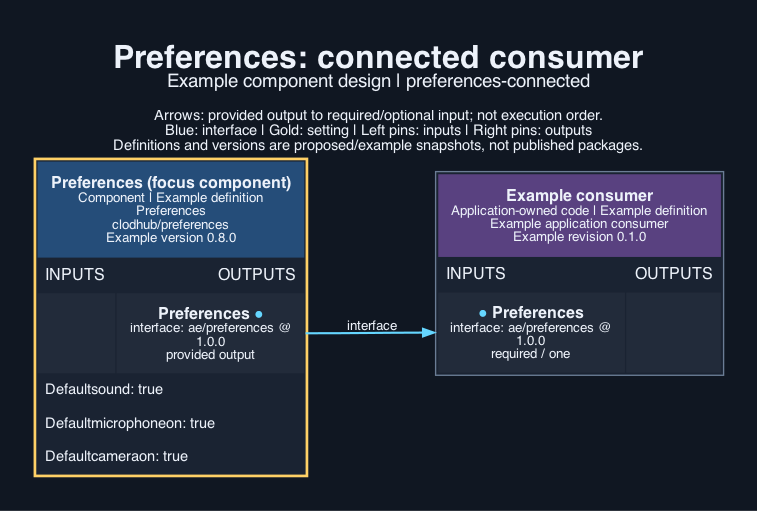
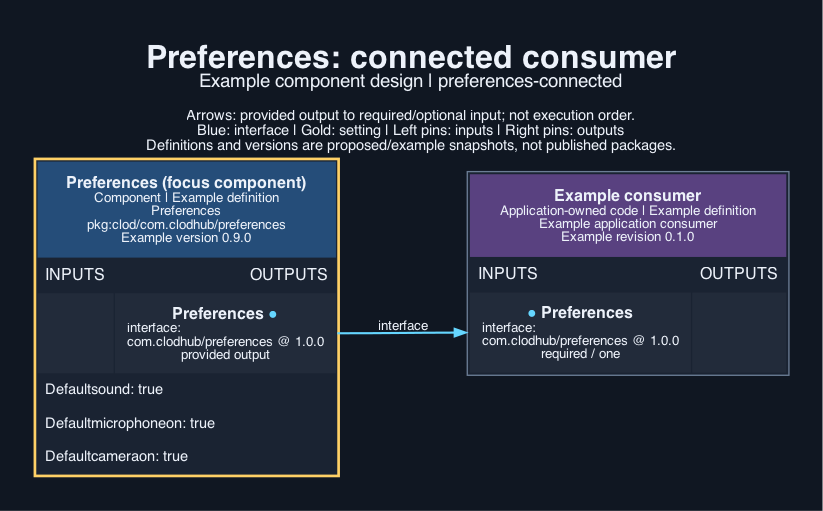
preferences 0.9.0: package URL names, clod, com.clodhub interface types and Kotlin packages; setting defaults as JSON values

diff --git a/tests/android/Main.kt b/tests/android/Main.kt
@@ -1,7 +1,7 @@
-import ae.preferences.DevicePreferences
-import ae.preferences.PreferenceDefaults
-import ae.preferences.PreferenceStorage
-import ae.preferences.availableDeviceId
+import com.clodhub.preferences.DevicePreferences
+import com.clodhub.preferences.PreferenceDefaults
+import com.clodhub.preferences.PreferenceStorage
+import com.clodhub.preferences.availableDeviceId
 
 class MemoryStorage : PreferenceStorage {
     val data = mutableMapOf<String, Any>()

diff --git a/implementation/android/src/main/java/com/clodhub/preferences/Preferences.kt b/implementation/android/src/main/java/com/clodhub/preferences/Preferences.kt
@@ -1,4 +1,4 @@
-package ae.preferences
+package com.clodhub.preferences
 
 // SharedPreferences in the application: the four methods below map straight onto it.
 interface PreferenceStorage {

diff --git a/CONTRACT.md b/CONTRACT.md
@@ -8,14 +8,14 @@ Facilities: `preferences` (Per-device language, sound, camera and microphone cho
 ## User inputs
 Three settings give the defaults for a device that has never chosen: `defaultSound` (default true), `defaultMicrophoneOn` (true) and `defaultCameraOn` (true). Language and device choices have no default beyond "follow the device" and "automatic".
 
-- `defaultSound` (boolean; optional; default `True`)
-- `defaultMicrophoneOn` (boolean; optional; default `True`)
-- `defaultCameraOn` (boolean; optional; default `True`)
+- `defaultSound` (boolean; optional; default `true`)
+- `defaultMicrophoneOn` (boolean; optional; default `true`)
+- `defaultCameraOn` (boolean; optional; default `true`)
 
 ## Artefacts and dependencies
 `component.json` maps every `implementation/` source into `components/preferences/`:
 
-- `implementation/android/src/main/java/ae/preferences/Preferences.kt` -> `components/preferences/android/src/main/java/ae/preferences/Preferences.kt`
+- `implementation/android/src/main/java/com/clodhub/preferences/Preferences.kt` -> `components/preferences/android/src/main/java/com/clodhub/preferences/Preferences.kt`
 - `implementation/apple/Sources/Preferences.swift` -> `components/preferences/apple/Sources/Preferences.swift`
 - `implementation/web/preferences.ts` -> `components/preferences/web/preferences.ts`
 
@@ -23,8 +23,8 @@ Dependencies: none.
 `tools.lock.json` pins verification tools: node 26.5, python3 3.12, swiftc 6.4, kotlinc 2.2, java 26.0. Licence wording remains deferred.
 
 ## Provided interfaces
-- `interfaces/preferences.json` defines `preferences` (ae/preferences) version 1.0.0 as an OpenRPC 1.3.2 document: the TypeScript functions and `PreferenceStore.*` methods (tagged `typescript`) and the native `DevicePreferences` class (tagged `swift` and `kotlin`), with the preferences, defaults, keys and records as JSON Schema 2020-12.
-- `interfaces/preference-record.schema.json` is the JSON Schema 2020-12 document of one exported record (ae/preference-record 1.0.0).
+- `interfaces/preferences.json` defines `preferences` (com.clodhub/preferences) version 1.0.0 as an OpenRPC 1.3.2 document: the TypeScript functions and `PreferenceStore.*` methods (tagged `typescript`) and the native `DevicePreferences` class (tagged `swift` and `kotlin`), with the preferences, defaults, keys and records as JSON Schema 2020-12.
+- `interfaces/preference-record.schema.json` is the JSON Schema 2020-12 document of one exported record (com.clodhub/preference-record 1.0.0).
 
 ## Required interfaces
 None.

diff --git a/SOURCE.md b/SOURCE.md
@@ -12,7 +12,7 @@ What the recipe stores per device for this purpose: `lang` (picked language), `s
   - `availableDeviceId`: `implementation/apple/Sources/VideoSession.swift` in `clodhub/video-calls` lines 89-92 (`availableCameraID`), from `ios/OurPoker/Sources/MediaToggles.swift` lines 13-26.
   - `createPreferences`, `subscribe`, `reset`, defaults as settings, `microphoneOn`, `cameraOn`, `microphoneDeviceId`, `exportAll`, `importAll`: new.
 - `implementation/apple/Sources/Preferences.swift` <- `ios/OurPoker/Sources/Strings.swift` lines 8-20 (`picked` and `pick` over `UserDefaults` `lang`), `ios/OurPoker/Sources/Sound.swift` lines 11-31 (`SoundSetting`: `sound` read with `object(forKey:) as? Bool ?? true`, written as a Bool), `implementation/apple/Sources/VideoSession.swift` in `clodhub/video-calls` lines 56-75 and 111-113 (`cameraDeviceID`). `Platform.swift` holds no stored settings (only compile-time platform switches) so nothing was taken from it. Not extracted: the SwiftUI language menu (`HomeScreen.swift` lines 142-159), the `Language` bundle switching and observation (`Strings.swift` lines 20-36), and `Sound.stopAll`.
-- `implementation/android/src/main/java/ae/preferences/Preferences.kt` <- `android/app/src/main/java/app/ourapps/ourpoker/AppLanguage.kt` lines 14-19 (`picked`, `pick` over `SharedPreferences` `lang`), `Sound.kt` lines 44-53 (`SoundSetting`: boolean `sound`, default true). Not extracted: the locale wrapping (`wrap`, lines 24-30), the `StateFlow` and the language menu (`ui/HomeScreen.kt`). Not compiled on the authoring machine (no kotlinc).
+- `implementation/android/src/main/java/com/clodhub/preferences/Preferences.kt` <- `android/app/src/main/java/app/ourapps/ourpoker/AppLanguage.kt` lines 14-19 (`picked`, `pick` over `SharedPreferences` `lang`), `Sound.kt` lines 44-53 (`SoundSetting`: boolean `sound`, default true). Not extracted: the locale wrapping (`wrap`, lines 24-30), the `StateFlow` and the language menu (`ui/HomeScreen.kt`). Not compiled on the authoring machine (no kotlinc).
 
 ## Left behind in the recipe
 

diff --git a/INSTRUCTIONS.md b/INSTRUCTIONS.md
@@ -3,12 +3,12 @@
 ## For the agent
 Select this component for any application with per-device language, sound or camera and microphone choices. Set the three defaults. Connect `preferences` to sound-cues, guided-tour and the video component. The default storage keys are `lang`, `sound`, `micOn`, `camOn`, `cameraDeviceID` and `microphoneDeviceID`; pass `keys` to use others.
 
-- Select package `clodhub/preferences` version `0.8.0`.
+- Select package `pkg:clod/com.clodhub/preferences` version `0.9.0`.
 - Settings to configure:
-  - `defaultSound` (boolean; optional; default `True`)
-  - `defaultMicrophoneOn` (boolean; optional; default `True`)
-  - `defaultCameraOn` (boolean; optional; default `True`)
-- Connect the provided `preferences` (ae/preferences 1.0.0) to the consumer that needs it.
+  - `defaultSound` (boolean; optional; default `true`)
+  - `defaultMicrophoneOn` (boolean; optional; default `true`)
+  - `defaultCameraOn` (boolean; optional; default `true`)
+- Connect the provided `preferences` (com.clodhub/preferences 1.0.0) to the consumer that needs it.
 - No accounts or keys are needed.
 
 ## For the developer
@@ -20,4 +20,4 @@ From the component directory:
 - `node --test tests/web.test.ts` (web, required-local; tools: node 26.5)
 - `python3 tests/native.py apple` (apple, platform; tools: python3 3.12, swiftc 6.4)
 - `python3 tests/native.py android` (android, platform; tools: python3 3.12, kotlinc 2.2, java 26.0)
-- `python3 -m aepm review <digest> --store STORE --policy POLICY --trusted --allow-network` checks an archive fetched with `python3 -m aepm fetch clodhub/preferences@VERSION --store STORE --from https://clodhub.com` and runs its suites.
+- `python3 -m clod review <digest> --store STORE --policy POLICY --trusted --allow-network` checks an archive fetched with `python3 -m clod fetch preferences@VERSION --store STORE --from https://clodhub.com` and runs its suites.

diff --git a/.opencode/knowledge/00-index.md b/.opencode/knowledge/00-index.md
@@ -1,5 +1,5 @@
 # preferences ownership
 
 Repository: https://github.com/clodhub/preferences.git.
-Current code: `implementation/android/src/main/java/ae/preferences/Preferences.kt`, `implementation/apple/Sources/Preferences.swift`, `implementation/web/preferences.ts`.
+Current code: `implementation/android/src/main/java/com/clodhub/preferences/Preferences.kt`, `implementation/apple/Sources/Preferences.swift`, `implementation/web/preferences.ts`.
 `component.json`, `tools.lock.json` and `visual/` are generated from `authoring/spec.json`; edit the spec, not the generated files. `CONTRACT.md`, `INSTRUCTIONS.md` and `SOURCE.md` are hand-written and kept on regeneration.

diff --git a/visual/output/description.md b/visual/output/description.md
@@ -1,3 +1,3 @@
 # Preferences
 
-The preferences component at version 0.8.0 provides ae/preferences version 1.0.0 to an illustrative application consumer. The single arrow runs from the named output to its required input. Setting values shown are placeholders and secrets appear only as references.
+The preferences component at version 0.9.0 provides com.clodhub/preferences version 1.0.0 to an illustrative application consumer. The single arrow runs from the named output to its required input. Setting values shown are placeholders and secrets appear only as references.

diff --git a/.opencode/knowledge/workflow.md b/.opencode/knowledge/workflow.md
@@ -2,5 +2,5 @@
 
 Repository: `clodhub/preferences`. Licence: `Apache-2.0` (`LICENCE`, `NOTICE`).
 Suite commands (from the package root): `node --test tests/web.test.ts`; `python3 tests/native.py apple`; `python3 tests/native.py android`.
-Review a fetched archive: `python3 -m aepm review <digest> --store STORE --policy POLICY --trusted --allow-network`.
+Review a fetched archive: `python3 -m clod review <digest> --store STORE --policy POLICY --trusted --allow-network`.
 Always run Python with `-B`; never write bytecode into the repository.
